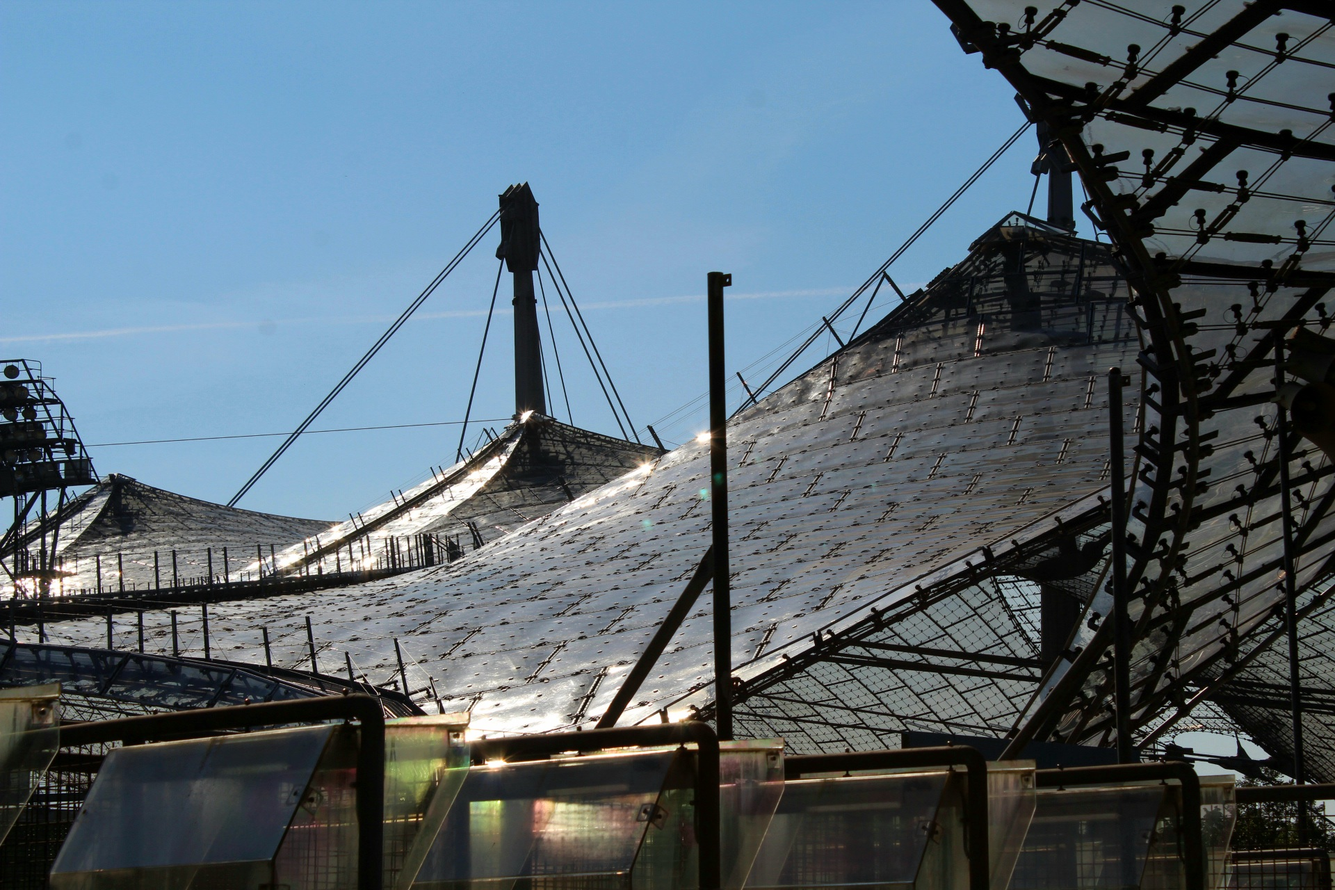
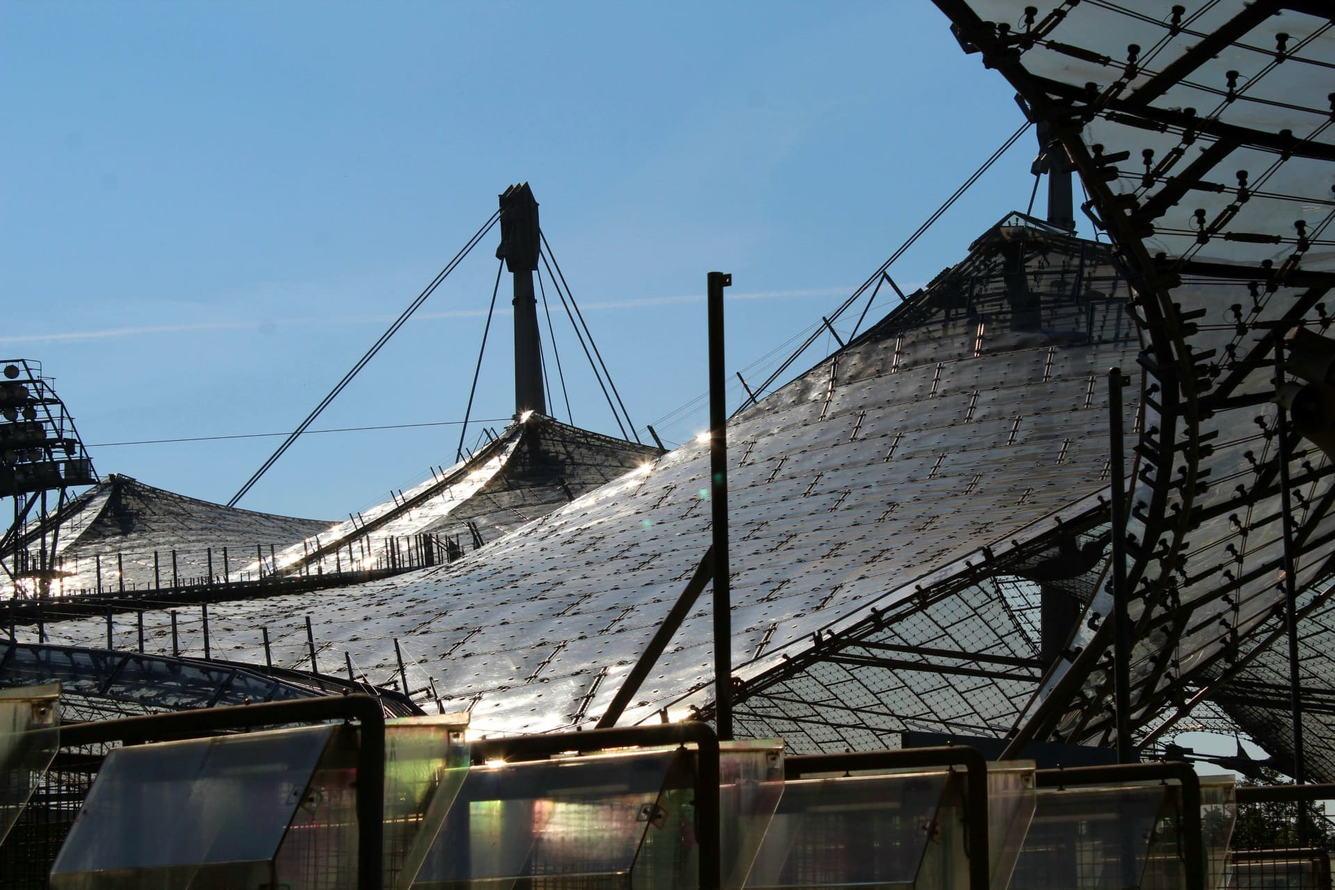
Add komprimierte Bilder

diff --git a/Aufgaben/L04/portfolioCSS.html b/Aufgaben/L04/portfolioCSS.html
@@ -25,11 +25,11 @@
      <div class="containerMain">
       <h2> Portfolio </h2>
            <h3> Bilder </h3>
-             <img src="../L03/assets/foto/foto1.jpg" width="500" class="bilder">
-             <img src="../L03/assets/foto/foto2.jpg" width="500" class="bilder">
-             <img src="../L03/assets/foto/foto4.JPG" width="500" class="bilder">
-             <img src="../L03/assets/foto/foto5.JPG" width="500" class="bilder">
-             <img src="../L03/assets/foto/foto6.JPG" width="500" class="bilder">
+             <img src="../L04/assets/foto/foto1.jpg" width="500" class="bilder">
+             <img src="../L04/assets/foto/foto2.jpg" width="500" class="bilder">
+             <img src="../L04/assets/foto/foto4.jpg" width="500" class="bilder">
+             <img src="../L04/assets/foto/foto5.jpg" width="500" class="bilder">
+             <img src="../L04/assets/foto/foto6.jpg" width="500" class="bilder">
            <h3> Video </h3>
              <video src="../L03/assets/animation/video1.mp4" controls muted width="500" class="bilder"></video>
      </div>

diff --git a/Aufgaben/L04/style.css b/Aufgaben/L04/style.css
@@ -5,7 +5,7 @@ html, body{
 .containerHeader{
     width: 100%;
     margin: auto;
-    background-image: url("../L04/assets/foto/foto3s.png");
+    background-image: url("../L04/assets/foto/foto3.jpg");
     background-repeat: no-repeat;
     background-position: center;
     background-size: cover;

diff --git a/Aufgaben/L04/styleAboutMe.css b/Aufgaben/L04/styleAboutMe.css
@@ -5,7 +5,7 @@ html, body{
 .containerHeader{
     width: 100%;
     margin: auto;
-    background-image: url("../L04/assets/foto/foto3s.png");
+    background-image: url("../L04/assets/foto/foto3.jpg");
     background-repeat: no-repeat;
     background-position: center;
     background-size: cover;

diff --git a/Aufgaben/L04/styleContact.css b/Aufgaben/L04/styleContact.css
@@ -5,7 +5,7 @@ html, body{
 .containerHeader{
     width: 100%;
     margin: auto;
-    background-image: url("../L04/assets/foto/foto3s.png");
+    background-image: url("../L04/assets/foto/foto3.jpg");
     background-repeat: no-repeat;
     background-position: center;
     background-size: cover;
